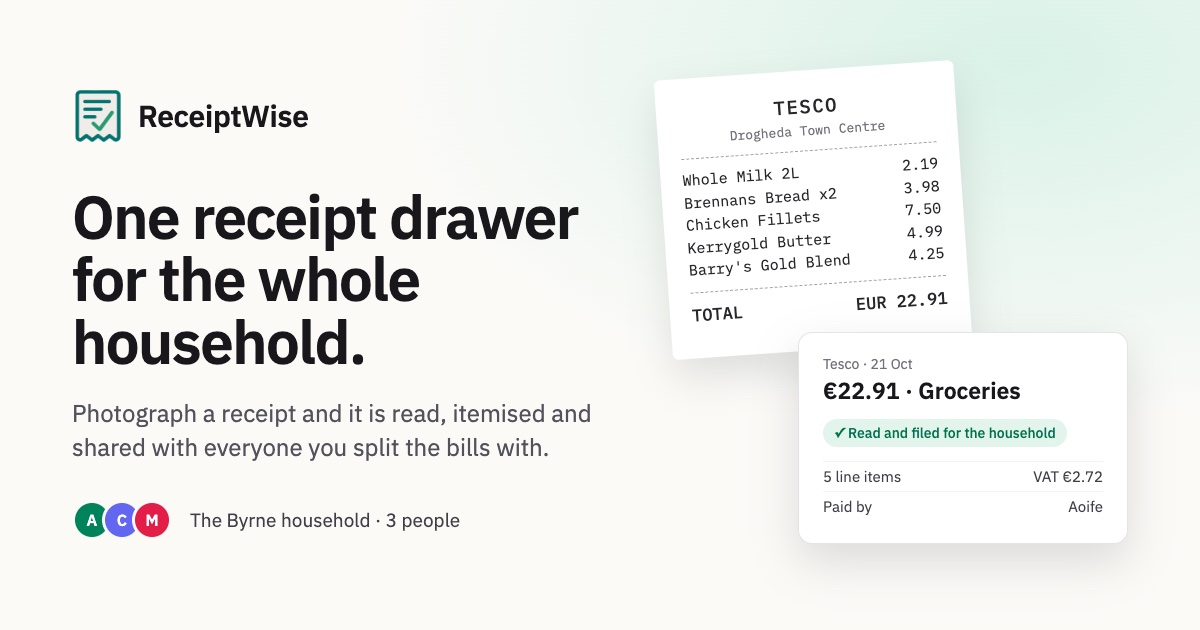
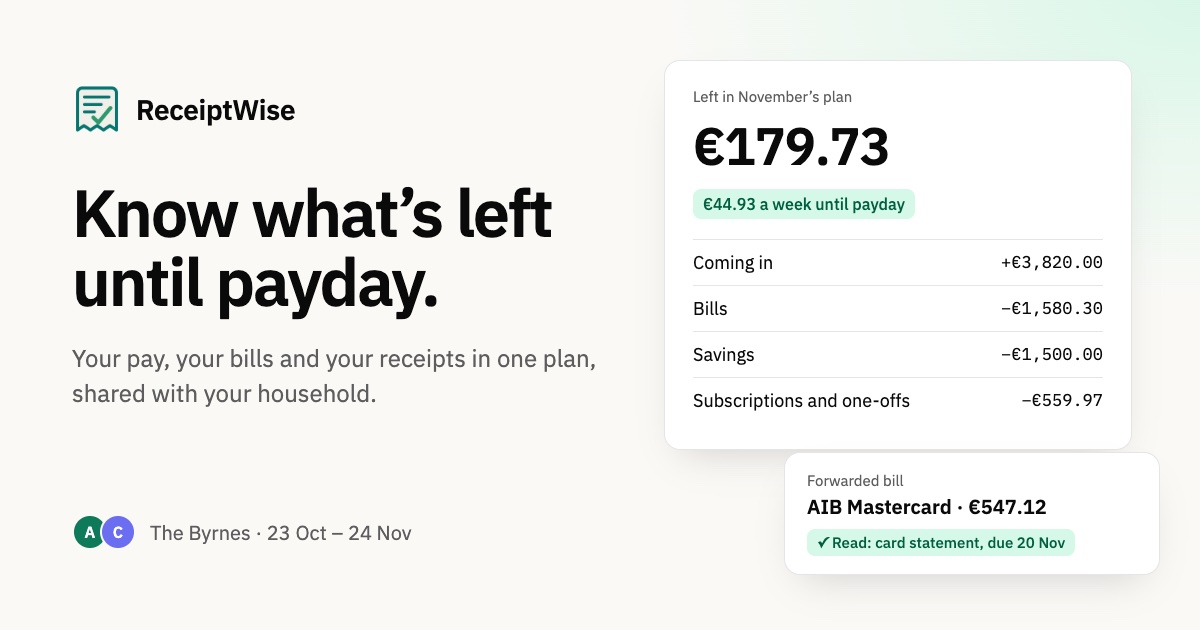
Landing hero shows the Plan, a new share image, and the sign-in page leads with the plan
The headline sells what's left until payday, so the hero picture is now the Plan rather than the
receipts dashboard: the staging household (as the Byrnes persona) at 1600px and phone size, light
and dark, captured 2026-10-29 the same way as before. The dashboard pictures stay for when the
plan isn't launched.

opengraph.jpg is redrawn with the same headline and the same month's figures (EUR 179.73 left,
EUR 44.93 a week).

diff --git a/components/landing/landing-page.tsx b/components/landing/landing-page.tsx
@@ -49,6 +49,9 @@ const TRIAL_DAYS = process.env.NEXT_PUBLIC_STRIPE_TRIAL_DAYS
   : 0;
 const HAS_TRIAL = TRIAL_DAYS > 0 && !Number.isNaN(TRIAL_DAYS);
 
+const PLAN_ALT = 'A month in the ReceiptWise plan: what is left after the pay, the bills, the savings and the one-offs, the weekly split, the bank balance until payday, and a bill to file';
+const DASHBOARD_ALT = "The ReceiptWise dashboard: this month's receipts and spending, a breakdown by category, weekly trends, the month's plan and the latest receipts";
+
 /*
  * Feature cards used to carry a `gradient` field each — from-orange-500/10,
  * from-purple-500/10, from-violet-500/10 and so on — revealed on hover. Seven
@@ -255,33 +258,37 @@ export function LandingPage({ initialSignedIn = false }: { initialSignedIn?: boo
           )}
         </div>
 
-        {/* Dashboard Preview */}
+        {/* Product preview */}
         <div className="mx-auto mt-20 w-full max-w-6xl">
           <div className="overflow-hidden rounded-xl border bg-card shadow-2xl shadow-foreground/5">
             {/* WebP at 1600px wide (~50 KB each). On a phone the desktop capture shrank to about
                 340px and its text was unreadable, so phones get a phone capture instead (780px,
-                ~25 KB). Light and dark are separate pictures because the theme is a class, not
-                prefers-color-scheme. */}
-            <picture className="block dark:hidden">
-              <source media="(max-width: 639px)" srcSet="/dashboard-mobile-light.webp" width={780} height={1200} />
-              <img
-                src="/dashboard-full-light.webp"
-                alt="The ReceiptWise dashboard: this month's receipts and spending, a breakdown by category, weekly trends, the month's plan and the latest receipts"
-                width={1600}
-                height={1639}
-                className="h-auto w-full"
-              />
-            </picture>
-            <picture className="hidden dark:block">
-              <source media="(max-width: 639px)" srcSet="/dashboard-mobile-dark.webp" width={780} height={1200} />
-              <img
-                src="/dashboard-full-dark.webp"
-                alt="The ReceiptWise dashboard: this month's receipts and spending, a breakdown by category, weekly trends, the month's plan and the latest receipts"
-                width={1600}
-                height={1639}
-                className="h-auto w-full"
-              />
-            </picture>
+                ~33 KB). Light and dark are separate pictures because the theme is a class, not
+                prefers-color-scheme. With the plan launched, the hero shows the Plan, which is what
+                the headline sells (captured 2026-10-29 from the staging household, as persona data). */}
+            {BILLS_LAUNCHED ? (
+              <>
+                <picture className="block dark:hidden">
+                  <source media="(max-width: 639px)" srcSet="/plan-mobile-light.webp" width={780} height={1200} />
+                  <img src="/plan-full-light.webp" alt={PLAN_ALT} width={1600} height={1640} className="h-auto w-full" />
+                </picture>
+                <picture className="hidden dark:block">
+                  <source media="(max-width: 639px)" srcSet="/plan-mobile-dark.webp" width={780} height={1200} />
+                  <img src="/plan-full-dark.webp" alt={PLAN_ALT} width={1600} height={1640} className="h-auto w-full" />
+                </picture>
+              </>
+            ) : (
+              <>
+                <picture className="block dark:hidden">
+                  <source media="(max-width: 639px)" srcSet="/dashboard-mobile-light.webp" width={780} height={1200} />
+                  <img src="/dashboard-full-light.webp" alt={DASHBOARD_ALT} width={1600} height={1639} className="h-auto w-full" />
+                </picture>
+                <picture className="hidden dark:block">
+                  <source media="(max-width: 639px)" srcSet="/dashboard-mobile-dark.webp" width={780} height={1200} />
+                  <img src="/dashboard-full-dark.webp" alt={DASHBOARD_ALT} width={1600} height={1639} className="h-auto w-full" />
+                </picture>
+              </>
+            )}
           </div>
         </div>
       </section>

diff --git a/app/sign-in/page.tsx b/app/sign-in/page.tsx
@@ -59,7 +59,7 @@ export default async function SignInPage({
                 </h1>
                 <p className="mt-4 text-lg text-muted-foreground">
                   {BILLS_LAUNCHED
-                    ? 'Your receipts, bills and monthly plan, in one place.'
+                    ? 'Know what’s left until payday: your pay, your bills and your receipts in one plan.'
                     : 'Your receipts and your household, in one place.'}
                 </p>
               </div>
@@ -96,7 +96,9 @@ export default async function SignInPage({
                   <div>
                     <h2 className="font-semibold text-foreground">Household sharing</h2>
                     <p className="text-sm text-muted-foreground">
-                      One receipt pile for everyone who shares the bills.
+                      {BILLS_LAUNCHED
+                        ? 'Plan the same month with your partner or the family.'
+                        : 'One receipt pile for everyone who shares the bills.'}
                     </p>
                   </div>
                 </div>
